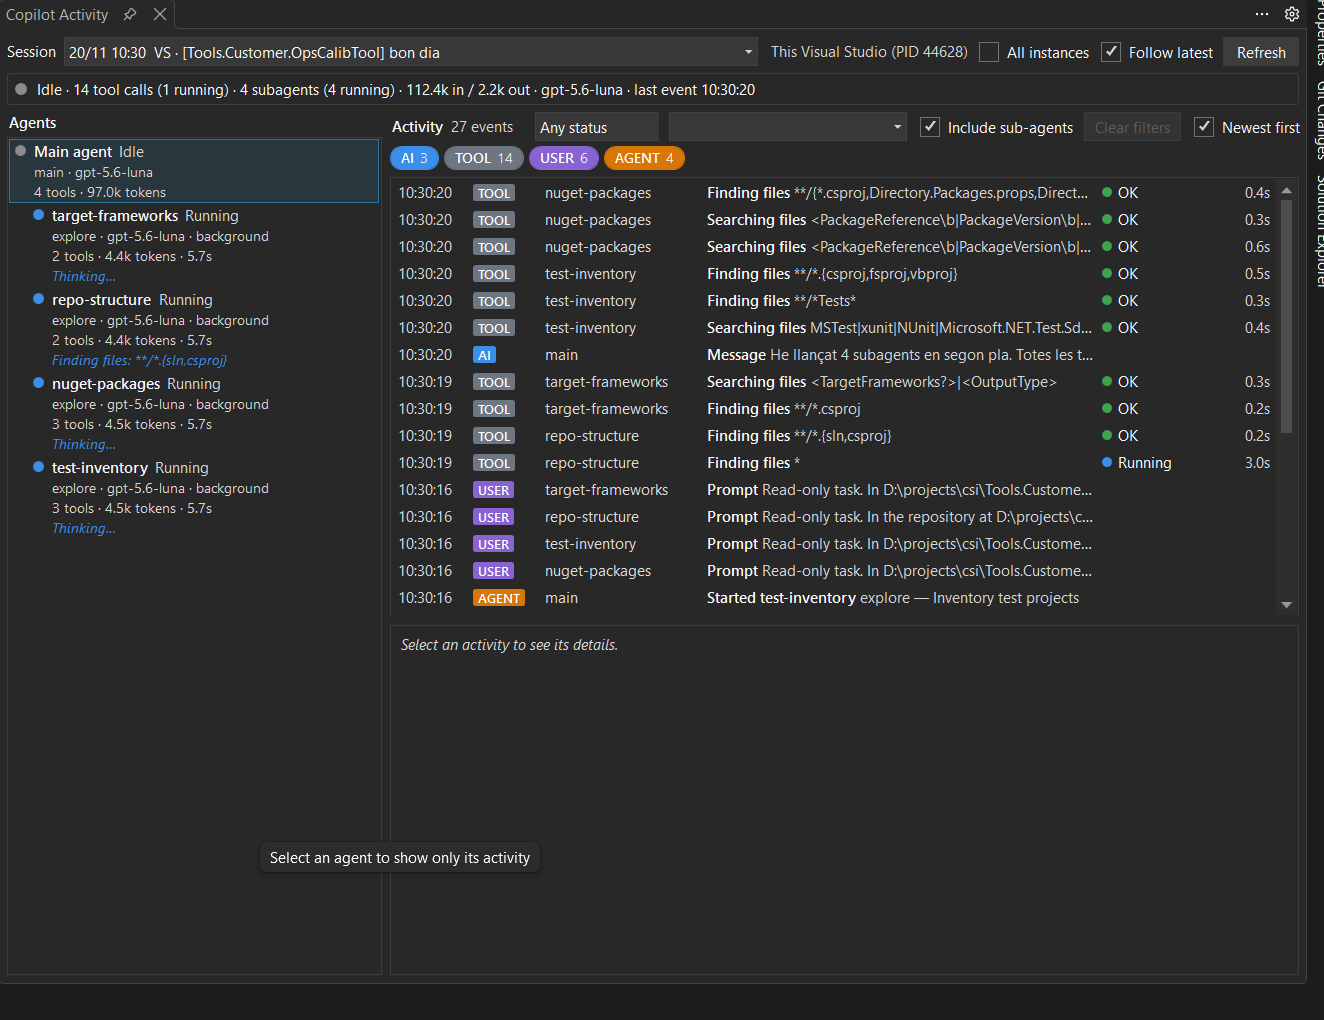
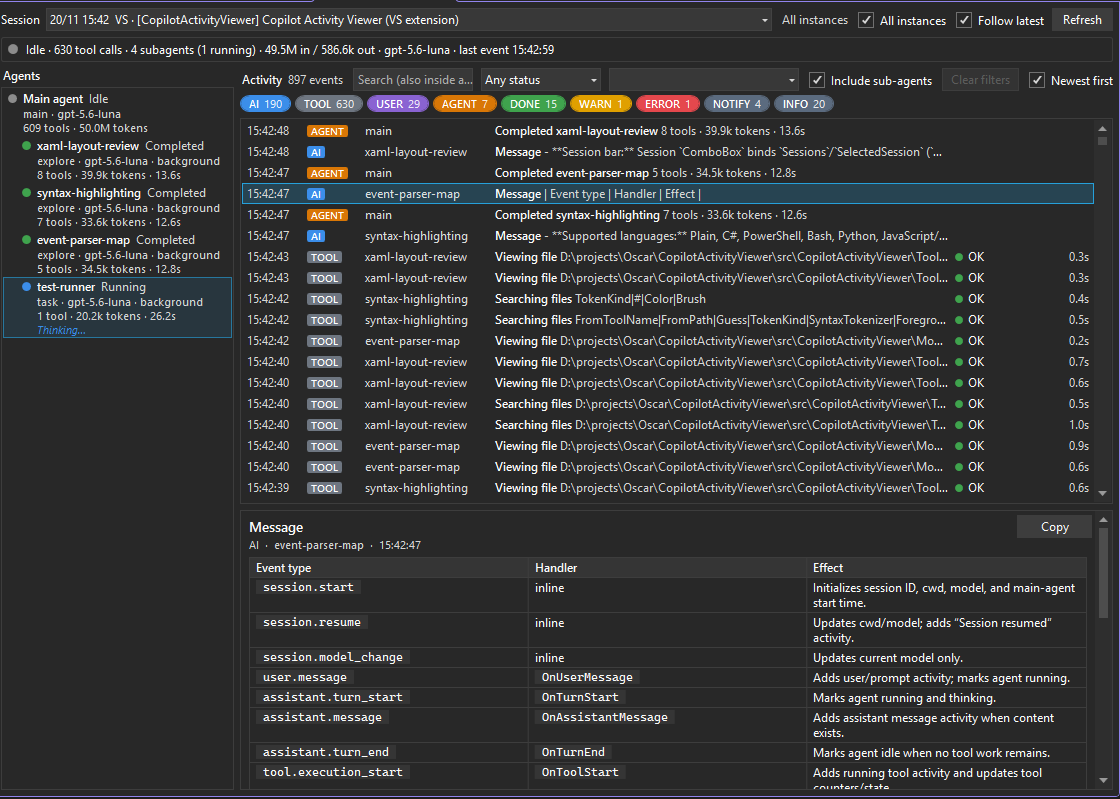
Use the new screenshots in the README and Marketplace overview

diff --git a/README.md b/README.md
@@ -10,6 +10,8 @@ to see, live, what the GitHub Copilot agent and its sub-agents are doing.
 
 ![Copilot Activity window showing the agent tree, the filtered activity timeline and sub-agents running in parallel](marketplace/images/MainScreen.png)
 
+![Copilot Activity docked next to the Copilot Chat while the agent works with four sub-agents](marketplace/images/MainScreenPlusChat.png)
+
 - **Agents**: the main agent and its sub-agents (including nested ones), with status, model,
   tool count, tokens and duration.
 - **Timeline**: messages, tool calls (with arguments, result, duration and approvals), errors,

diff --git a/marketplace/overview.md b/marketplace/overview.md
@@ -7,6 +7,10 @@ Open it from **View > Other Windows > Copilot Activity** or **Tools > Copilot Ac
 
 ![Copilot Activity window showing the agent tree, the filtered activity timeline and sub-agents running in parallel](images/MainScreen.png)
 
+Keep it docked next to the Copilot Chat to follow every step of the agent and its sub-agents:
+
+![Copilot Activity docked next to the Copilot Chat while the agent works with four sub-agents](images/MainScreenPlusChat.png)
+
 ## Features
 
 - **Agent tree**: the main agent and every sub-agent (including nested ones) with status,
